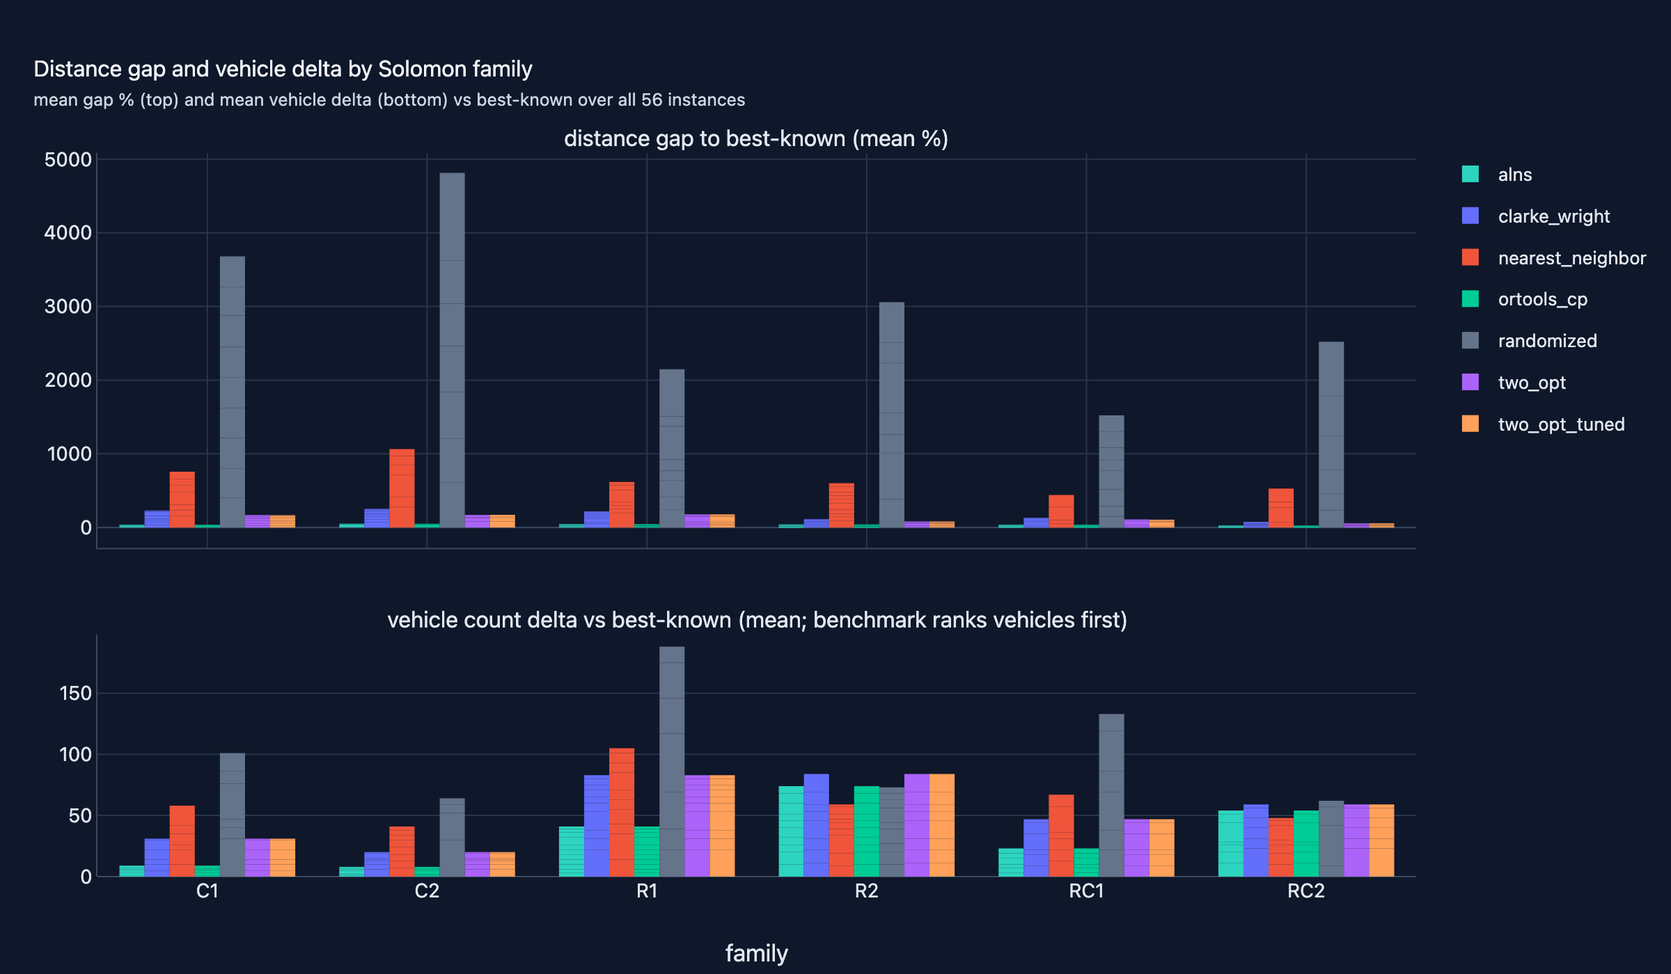
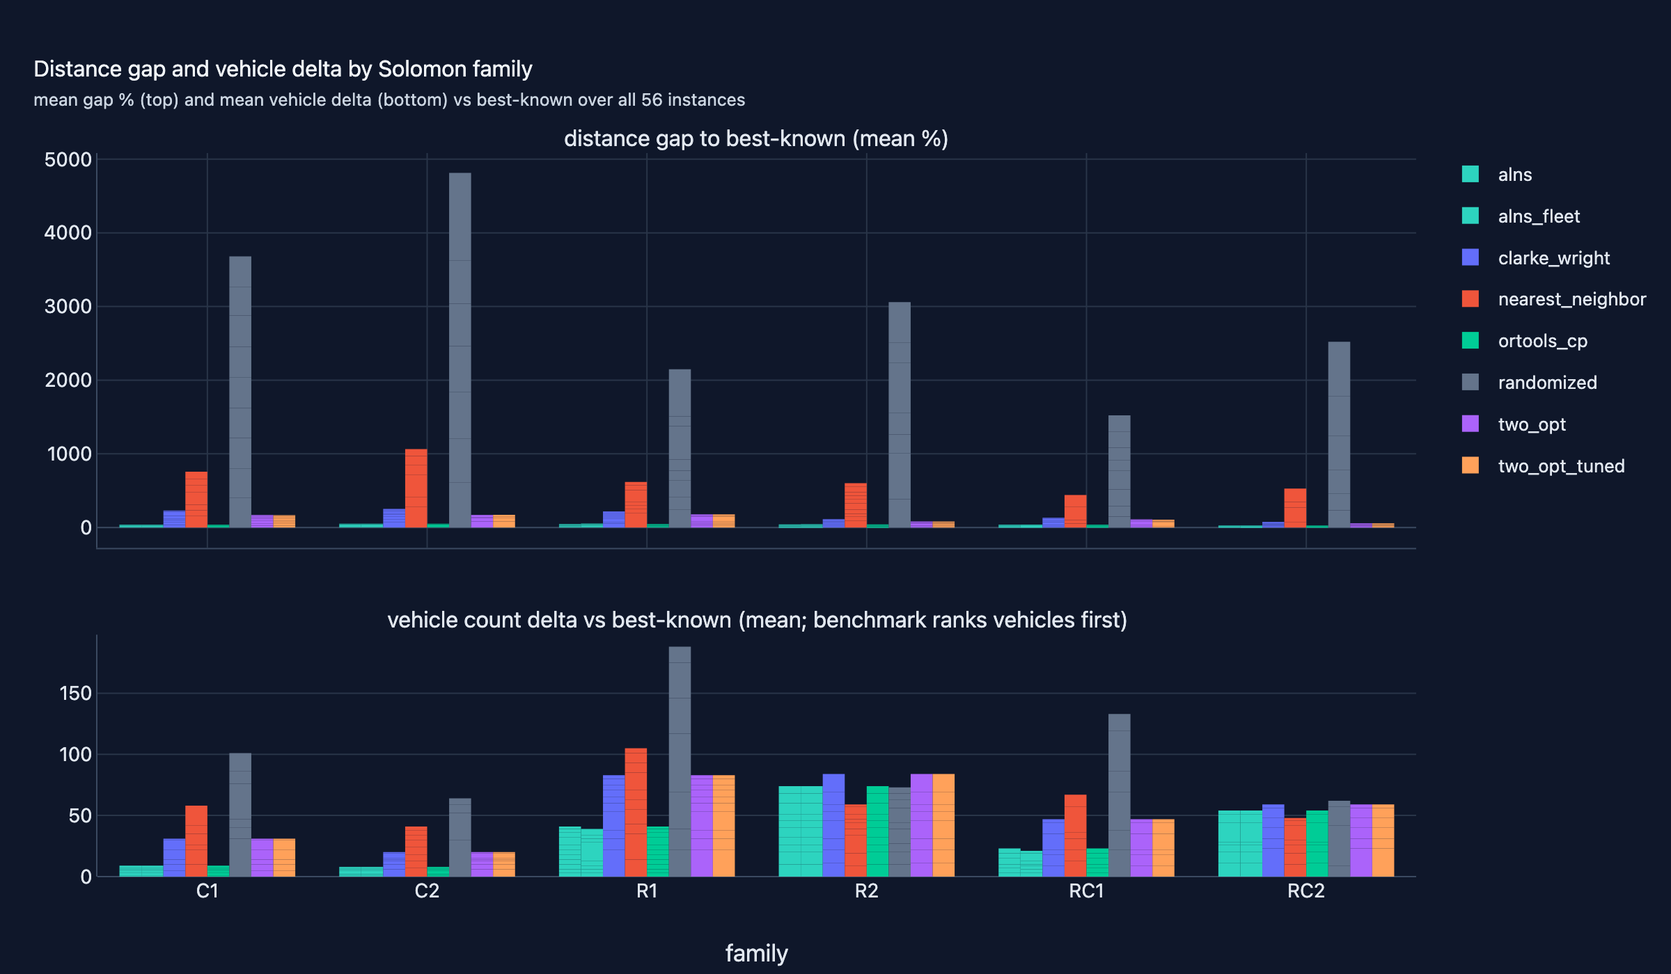
exp-11: rename to DataFrame Engines Benchmark; single-source fresh results everywhere
- portfolio/README/docs titles become 'DataFrame Engines Benchmark';
  README + docs rows and the case-study page carry the new short_version
  verbatim (geomean x19.2/x14.9, sqlite ~29x through file conversion,
  1M-10M sub-linear scaling) with the new 10-task x 4-engine table
- the projects-page card gains its missing 'what it does' block and
  refreshed results; short_version re-derived to the README's own numbers
- docs figures swapped to the deep-wave set (speedup_overview,
  memory_lollipop, normalized_heatmap); stale PNGs removed

diff --git a/apps/showcase-web/src/lib/storyShort.ts b/apps/showcase-web/src/lib/storyShort.ts
@@ -17,5 +17,5 @@ export const STORY_SHORT: Record<string, string | null> = {
   "08-inference-serving": "One laptop, one run: five LLM serving setups, 760 requests, zero failures. A 4-bit mixture-of-experts model answers in 0.81 s per request at about $0.12 per 1M output tokens (electricity only). The reusable asset is the harness for re-measuring any stack on target hardware.",
   "09-agentic-workflows": "An auditable plan-act-review AI workflow with fixed tools and budgets passed all automated checks: 15/15 fixed tasks, 13/13 unseen answers, 5/6 should-fail probes, ~$0.13 per suite. Ready for supervised pilots, not unattended use. Data: synthetic handbook, real Wikipedia chunks.",
   "10-uplift-experimentation": "On 64,000-customer randomized email data, uplift targeting beat random targeting by +$2,812 (+69%) at a 25% send budget, CI [+$718, +$4,767]; at $0.01 per email, mailing everyone still wins. Targeting pays when sending is costly. Data: Hillstrom MineThatData, March 2008.",
-  "11-data-engineering": "Eight data tasks over 2.96M NYC taxi trips on pandas, Polars and DuckDB, results parity-checked: Polars x17.3, DuckDB x14.7 vs pandas on the geomean — widest on CSV parsing, narrowest on parquet IO. Parity caught pandas dropping the N/A borough. Data: NYC TLC yellow 2024-01."
+  "11-data-engineering": "Ten data tasks over 2.96M NYC taxi trips, parity-checked on pandas, Polars, DuckDB and stdlib sqlite: Polars 19x, DuckDB 15x pandas; sqlite answers every SQL task but file conversion leaves it ~29x slower; 1M-10M tracks show the fast two scaling sub-linearly. NYC TLC 2024-01."
 };

diff --git a/apps/showcase-web/src/lib/cardCopy.ts b/apps/showcase-web/src/lib/cardCopy.ts
@@ -30,6 +30,8 @@ export const CARD_DOES: Record<string, string> = {
     "Runs an auditable plan-act-review agent workflow over a synthetic **12-document handbook** plus a read-only Wikipedia slice.",
   "10-uplift-experimentation":
     "Evaluates uplift targeting on **64,000-customer** randomized email data (Hillstrom MineThatData, March 2008) at a **25% send budget**.",
+  "11-data-engineering":
+    "Times **ten data tasks** — parquet/CSV IO, group-by, join, window, strings — over **2.96M NYC taxi trips** on **pandas, Polars, DuckDB and stdlib sqlite**, with a row-parity gate on every measured cell.",
 };
 
 /** "What it achieves" per project id — the measured result. Key numbers are
@@ -56,7 +58,7 @@ export const CARD_ACHIEVES: Record<string, string> = {
   "10-uplift-experimentation":
     "Beats random targeting by **+$2,812 (+69%; CI +$718 to +$4,767)**, though at $0.01 per email mailing everyone still wins.",
   "11-data-engineering":
-    "Polars runs **x17.3** and DuckDB **x14.7** over pandas on the geomean of 8 parity-checked tasks — from a **3-5x** tie on parquet IO to **110x-plus** on group-by and window work.",
+    "Polars runs **x19.2** and DuckDB **x14.9** over pandas on the geomean of 10 parity-checked tasks; sqlite answers every SQL task but file conversion leaves it **~29x slower**; seeded **1M-10M** tracks show the fast two scaling sub-linearly.",
 };
 
 /** Exactly four short tags per card — technique/capability wording with no

diff --git a/apps/showcase-web/src/pages/ProjectsIndex.tsx b/apps/showcase-web/src/pages/ProjectsIndex.tsx
@@ -276,7 +276,7 @@ export function ProjectsIndex() {
   return (
     <>
       <section className="services-hero">
-        <p className="kicker">&gt; Projects</p>
+        <p className="kicker">&gt; projects</p>
         <h1>Projects and demos repository</h1>
         <p>
           A growing set of public, reproducible case studies with live demos — real datasets,

diff --git a/apps/showcase-web/src/lib/staticRegistry.ts b/apps/showcase-web/src/lib/staticRegistry.ts
@@ -220,7 +220,7 @@ export const STATIC_PROJECTS: StaticProject[] = [
       "Parquet",
       "Benchmark harness"
     ],
-    "title": "Data Engineering",
+    "title": "DataFrame Engines Benchmark",
     "topic": "Data Engineering"
   }
 ];

diff --git a/docs/projects/11-data-engineering.md b/docs/projects/11-data-engineering.md
@@ -1,71 +1,85 @@
-# 11 · Data Engineering (pandas / Polars / DuckDB)
+# 11 · DataFrame Engines Benchmark (pandas / Polars / DuckDB / sqlite)
 
 **Domain:** data engineering ·
-**Data:** NYC TLC yellow taxi 2024-01 (2,964,624 trips, real parquet, sha256-pinned) ·
+**Data:** NYC TLC yellow taxi 2024-01 (2,964,624 trips, real parquet, sha256-pinned) + seeded synthetic CI/scalability tracks ·
 **Status:** working showcase —
 [Project README](https://github.com/amm-ds/portfolio/tree/main/projects/11-data-engineering) ·
 [DESIGN.md](https://github.com/amm-ds/portfolio/tree/main/projects/11-data-engineering/DESIGN.md) ·
 [Dataset card](https://amm-ds.github.io/portfolio/data-registry/nyc-tlc/)
 
-> Eight data tasks over 2.96M NYC taxi trips on pandas, Polars and DuckDB,
-> results parity-checked: Polars x17.3, DuckDB x14.7 vs pandas on the geomean
-> — widest on CSV parsing, narrowest on parquet IO. Parity caught pandas
-> dropping the N/A borough. Data: NYC TLC yellow 2024-01.
->
-> **TL;DR:** data teams choosing between pandas, Polars and DuckDB, where the
-> honest answer depends on the task mix: the same three engines tie on warm
-> parquet reads and sit up to 170x apart on group-by and window work. The
-> benchmark is a reusable harness — pinned data, one contract per task, equal
-> results enforced before any timing counts.
->
-> [Case study source and interactive figures on GitHub →](https://github.com/amm-ds/portfolio/tree/main/projects/11-data-engineering)
+> Ten data tasks over 2.96M NYC taxi trips, parity-checked on pandas,
+> Polars, DuckDB and stdlib sqlite: Polars 19x, DuckDB 15x pandas; sqlite
+> answers every SQL task but file conversion leaves it ~29x slower; 1M-10M
+> tracks show the fast two scaling sub-linearly. NYC TLC 2024-01.
 
-![Wall-time speedup vs pandas per task (median of 5, log scale): 4-5x on parquet IO, 22-36x on joins and CSV, 124-170x on group-by and window.](../assets/projects/11-data-engineering/speedup_vs_pandas.png){ width="100%" }
+**TL;DR:** data teams choosing between pandas, Polars and DuckDB — now with
+stdlib sqlite as the honest classical baseline — where the answer depends on
+the task mix: the engines tie on warm parquet reads and sit up to 44x apart
+on group-by and window work. The benchmark is a reusable harness — pinned
+data, one contract per task, equal results enforced before any timing
+counts.
+
+[Case study source and interactive figures on GitHub →](https://github.com/amm-ds/portfolio/tree/main/projects/11-data-engineering)
+
+![Speedup over pandas and sqlite across all ten tasks: Polars x19.2 and DuckDB x14.9 on the geomean; sqlite answers every SQL task but its file-loading conversion dominates.](../assets/projects/11-data-engineering/speedup_overview.png){ width="100%" }
 
 The engine question comes up in every data platform engagement, and the
 public answers rarely survive scrutiny: different queries per engine, no
 correctness check, numbers from an unknown machine. This project answers
 with a measured map over **2,964,624 real January-2024 yellow-taxi trips**:
-eight analytics-shaped tasks — parquet read, CSV read, per-day group-by,
-zone join, top-N-per-day window, filtered scan, parquet write, and a
-31-file partitioned read — each implemented on **pandas 2.x**, **Polars
-(lazy)**, and **DuckDB (SQL)** behind one contract: identical canonical
-results on all three, enforced as a hard gate before any stopwatch starts.
+ten analytics-shaped tasks — parquet read, CSV read, per-day group-by, zone
+join, top-N-per-day window, filtered scan, string group-by, distinct sort,
+parquet write, and a 31-file partitioned read — each implemented on
+**pandas 2.x**, **Polars (lazy)**, **DuckDB (SQL)** and **stdlib sqlite**
+behind one contract: identical canonical results on every engine, enforced
+as a hard gate before any stopwatch starts. sqlite cannot read parquet or
+CSV itself, so each task loads the file into its in-memory database inside
+the timed cell — that conversion is the honest cost of the classical
+engine, not a fudged number.
 
-## Key results (real run, seed 42, median of 5 warm repeats)
+## Key results (real run, seed 42, median of 5 untraced warm repeats)
 
 Median wall time per task, seconds; × = speedup vs pandas (bold: ladder
-total). Every cell passed the canonical-result gate (counts and keys exact,
-float sums within a 1e-5 band — parallel summation reorder is noise, not
-drift).
+total). Every measured cell passed the canonical-result gate (counts and
+keys exact, float sums within a 1e-5 band — parallel summation reorder is
+noise, not drift). write_parquet is honestly **n/a** for sqlite.
 
-| task | pandas | Polars | DuckDB | Polars × | DuckDB × |
-|---|---|---|---|---|---|
-| read_parquet | 0.014 | 0.003 | 0.003 | 5.4 | 4.7 |
-| read_csv | 1.444 | 0.040 | 0.064 | 36.4 | 22.6 |
-| groupby | 1.517 | 0.010 | 0.014 | 158.1 | 111.5 |
-| join | 0.205 | 0.010 | 0.010 | 20.6 | 21.3 |
-| window | 1.491 | 0.011 | 0.012 | 137.6 | 122.4 |
-| filter | 0.018 | 0.005 | 0.005 | 3.9 | 3.9 |
-| write_parquet | 0.277 | 0.056 | 0.050 | 4.9 | 5.5 |
-| partitioned_read | 0.017 | 0.004 | 0.005 | 4.7 | 3.3 |
-| **total / geomean** | **4.98** | **0.14** | **0.16** | **×17.3** | **×14.7** |
+| task | pandas | Polars | DuckDB | sqlite | Polars × | DuckDB × |
+|---|---|---|---|---|---|---|
+| read_parquet | 0.044 | 0.002 | 0.003 | 4.869 | 18.0 | 15.4 |
+| read_csv | 1.165 | 0.040 | 0.077 | 5.753 | 29.4 | 15.2 |
+| groupby | 0.374 | 0.009 | 0.010 | 5.179 | 40.7 | 36.2 |
+| join | 0.242 | 0.010 | 0.010 | 3.650 | 25.3 | 23.8 |
+| window | 0.341 | 0.008 | 0.009 | 5.882 | 43.5 | 38.4 |
+| filter | 0.048 | 0.004 | 0.012 | 1.947 | 11.0 | 4.1 |
+| strings_groupby | 0.149 | 0.006 | 0.006 | 4.212 | 25.1 | 25.0 |
+| distinct_sort | 0.075 | 0.007 | 0.005 | 3.866 | 11.4 | 14.3 |
+| write_parquet | 0.500 | 0.074 | 0.083 | n/a | 6.7 | 6.0 |
+| partitioned_read | 0.048 | 0.004 | 0.006 | 5.190 | 13.3 | 7.9 |
+| **total / geomean** | **2.99** | **0.16** | **0.22** | **40.55** | **×19.2** | **×14.9** |
 
-Fresh-process peak RSS: pandas 446–797 MB (797 MB on the join), Polars
-196–428 MB, DuckDB 177–455 MB — on the write task all three tie around
-428–455 MB. The map, not the mean, is the takeaway: 3–5x on parquet IO
-(the page cache, not the engine, sets the price at this size), 21–36x on
-joins and CSV parsing, and 111–158x on the group-by and window tasks where
-pandas builds Python-object intermediates. The gates earned their keep
-before the first figure shipped: the parity check caught pandas silently
-dropping every trip whose borough is the literal string "N/A" (the default
-CSV parser reads it as missing; 1,658 trips), and the repeat gate caught
-parallel-float rounding cliffs — both now regression-tested.
+Fresh-process peak RSS: pandas 549–945 MB (945 MB on the join), Polars
+200–529 MB, DuckDB 178–633 MB, sqlite 396–1,520 MB (frame and database
+coexist). The map, not the mean, is the takeaway: parquet IO sits at
+11–18x (the page cache, not the engine, sets the price at this size),
+22–43x on joins, CSV and window work, and sqlite pays seconds per task in
+conversion. The gates earned their keep before the first figure shipped:
+the parity check caught pandas silently dropping every trip whose borough
+is the literal string "N/A" (the default CSV parser reads it as missing;
+1,658 trips), and the determinism gate caught parallel-float rounding
+cliffs — both now regression-tested.
 
-The full protocol (median-of-5 warm repeats, cold fresh-process IO reads,
-true peak RSS in a fresh process per cell), versions and hardware live in
+Seeded 1M/3M/10M scalability tracks separate the engines further: pandas
+and sqlite grow linearly (log-log slopes 0.98–1.09) while Polars (0.44–0.76)
+and DuckDB (0.31–0.65) grow sub-linearly — the per-row advantage widens
+with scale. At 10M group-by: pandas 1.15 s, Polars 0.031 s, DuckDB 0.020 s,
+sqlite 26.4 s.
+
+The full protocol (median-of-5 untraced warm repeats, one dedicated traced
+allocation pass per cell, cold fresh-process IO reads, true peak RSS in a
+fresh process), versions and hardware live in
 `reports/evaluation_metadata.json`; per-task tables and figures in
 `reports/`. A seeded synthetic track runs the whole protocol in about
-15 seconds — that is the CI path.
+26 seconds — that is the CI path.
 
-![Peak RSS per task from fresh-process probes: pandas reaches 450-800 MB while Polars and DuckDB stay lower on the heavy tasks; all three tie on the write.](../assets/projects/11-data-engineering/memory_by_task.png){ width="100%" }
+![Peak RSS per task from fresh-process probes: pandas reaches 945 MB on the join, sqlite peaks at 1.5 GB on CSV, while Polars and DuckDB stay lower on the heavy tasks.](../assets/projects/11-data-engineering/memory_lollipop.png){ width="100%" }

diff --git a/README.md b/README.md
@@ -47,7 +47,7 @@ Ten projects, all working showcases on the same platform.
 | 08 | [LLM Inference & Serving](projects/08-inference-serving/) | AI infrastructure | Local Ollama stack (real serving target) | One laptop, one run: five LLM serving setups, 760 requests, zero failures. A 4-bit mixture-of-experts model answers in 0.81 s per request at about $0.12 per 1M output tokens (electricity only). The reusable asset is the harness for re-measuring any stack on target hardware.<br>Stack: latency percentiles vs concurrency, GGUF-vs-MLX engine panel, quantization frontier |
 | 09 | [Agentic Workflows](projects/09-agentic-workflows/) | Agentic AI | Synthetic 12-doc "Atlas Valley" handbook + read-only Wikipedia slice from 01 (CC BY-SA) | An auditable plan-act-review AI workflow with fixed tools and budgets passed all automated checks: 15/15 fixed tasks, 13/13 unseen answers, 5/6 should-fail probes, ~$0.13 per suite. Ready for supervised pilots, not unattended use. Data: synthetic handbook, real Wikipedia chunks.<br>Stack: pydantic-graph Plan→Execute→Critique, HITL checkpoints, budget-capped offline graders |
 | 10 | [Uplift & Experimentation](projects/10-uplift-experimentation/) | Decision science | Hillstrom email RCT (real) | On 64,000-customer randomized email data, uplift targeting beat random targeting by +$2,812 (+69%) at a 25% send budget, CI [+$718, +$4,767]; at $0.01 per email, mailing everyone still wins. Targeting pays when sending is costly. Data: Hillstrom MineThatData, March 2008.<br>Stack: CUPED, power analysis, T/X-learner uplift, Qini & profit curves |
-| 11 | [Data Engineering Benchmark](projects/11-data-engineering/) | Data engineering | NYC TLC yellow 2024-01 (real, sha-pinned) + seeded synthetic CI track | Eight data tasks over 2.96M NYC taxi trips on pandas, Polars and DuckDB, results parity-checked: Polars x17.3, DuckDB x14.7 vs pandas on the geomean — widest on CSV parsing, narrowest on parquet IO. Parity caught pandas dropping the N/A borough. Data: NYC TLC yellow 2024-01.<br>Stack: 8-task contract on pandas / Polars / DuckDB, parity gate, median-of-5 timing + fresh-process RSS probes |
+| 11 | [DataFrame Engines Benchmark](projects/11-data-engineering/) | Data engineering | NYC TLC yellow 2024-01 (real, sha-pinned) + seeded synthetic CI/scalability tracks | Ten data tasks over 2.96M NYC taxi trips, parity-checked on pandas, Polars, DuckDB and stdlib sqlite: Polars 19x, DuckDB 15x pandas; sqlite answers every SQL task but file conversion leaves it ~29x slower; 1M-10M tracks show the fast two scaling sub-linearly. NYC TLC 2024-01.<br>Stack: 10-task contract on pandas / Polars / DuckDB / sqlite, parity gate, median-of-5 untraced timing + traced allocation pass + fresh-process RSS probes |
 
 Flagships (01, 07) are complete end-to-end; the rest are working showcases
 built on the same platform, designed for deepening.
@@ -68,7 +68,7 @@ built on the same platform, designed for deepening.
 | 08 Inference | One laptop, one run: five LLM serving setups, 760 requests, zero failures. A 4-bit mixture-of-experts model answers in 0.81 s per request at about $0.12 per 1M output tokens (electricity only). The reusable asset is the harness for re-measuring any stack on target hardware.<br>Measured: Local serving benchmark (author run): 19 cells / 760 requests / 0 failures; **MLX ≈ 2.9× GGUF tok/s on Apple Silicon**; 4-bit quantization costs serving headroom, not structured-output validity |
 | 09 Agentic | An auditable plan-act-review AI workflow with fixed tools and budgets passed all automated checks: 15/15 fixed tasks, 13/13 unseen answers, 5/6 should-fail probes, ~$0.13 per suite. Ready for supervised pilots, not unattended use. Data: synthetic handbook, real Wikipedia chunks.<br>Measured: Full 15-task hosted run on `kimi-for-coding` (per-call tool capture): **15/15 on every grader** — answer success, exact tool set (up from 8/15: per-call traces located the unplanned calls, prompt/docstring surgery removed them), step budget, latency budget (median **18.2 s**/task, p95 31.1 s vs the 60 s cap); sealed held-out set, expanded to **19 tasks** (2026-10-30): **13/13 answers with exact tool sets, 5/6 should-fail refusals** — the miss is a failure-message wording gap, not confabulation; the h11–h19 wave ran on local Ollama at **$0.00 metered** and exposed the hosted-tuned 60 s budget as provider-sensitive (7/9 local tasks exceed it); suite cost **$0.13 cloud-equivalent** of the $2.00 suite cap (~$0.0088/task), with two repeat passes confirming 15/15 answers and exact tool sets at ~$0.10–0.15 per suite; t15 retrieves two-article facts from 01's real Wikipedia index |
 | 10 Uplift | On 64,000-customer randomized email data, uplift targeting beat random targeting by +$2,812 (+69%) at a 25% send budget, CI [+$718, +$4,767]; at $0.01 per email, mailing everyone still wins. Targeting pays when sending is costly. Data: Hillstrom MineThatData, March 2008.<br>Measured: Hillstrom RCT: ATE +0.68pp, CUPED covariate lesson, power analysis; T-learner **+$2,812/wave vs random** at 25% budget (own paired CI [+$718, +$4,767] — established); **mail-everyone ($16,103) beats it at $0.01/email** (paired CI [−$13,125, −$5,808] below zero) — the value is concentration (~42% of conversions at ¼ volume); targeting wins above ≈$0.30/email (break-even grid); Qini curve-area ranking not established (spans zero; the paired response−T profit CI [−$3,617, −$48] is what favors T) |
-| 11 Engine benchmark | Eight data tasks over 2.96M NYC taxi trips on pandas, Polars and DuckDB, results parity-checked: Polars x17.3, DuckDB x14.7 vs pandas on the geomean — widest on CSV parsing, narrowest on parquet IO. Parity caught pandas dropping the N/A borough. Data: NYC TLC yellow 2024-01.<br>Measured: Real-data primary (NYC TLC yellow 2024-01, 2,964,624 trips, sha-pinned): geomean speedup vs pandas **x17.3 (Polars) / x14.7 (DuckDB)** over 8 parity-checked tasks — per-task spread **3-5x on parquet IO to 111-158x on group-by and window**; fresh-process peak RSS **446-797 MB (pandas) vs 196-428 (Polars) / 177-455 (DuckDB)**; CSV parse is pandas's heaviest tax (1.44 s of its 4.98 s ladder, Polars x36); the parity gate caught pandas silently dropping the literal "N/A" borough (1,658 trips) and the determinism gate caught parallel-float rounding cliffs |
+| 11 Engine benchmark | Ten data tasks over 2.96M NYC taxi trips, parity-checked on pandas, Polars, DuckDB and stdlib sqlite: Polars 19x, DuckDB 15x pandas; sqlite answers every SQL task but file conversion leaves it ~29x slower; 1M-10M tracks show the fast two scaling sub-linearly. NYC TLC 2024-01.<br>Measured: Real-data primary (NYC TLC yellow 2024-01, 2,964,624 trips, sha-pinned): geomean speedup vs pandas **x19.2 (Polars) / x14.9 (DuckDB)** over 10 parity-checked tasks; stdlib sqlite answers every SQL task but its in-timed file-loading conversion leaves it ~29x slower (40.55s vs 2.99s totals); fresh-process peak RSS **549-945 MB (pandas) vs 200-529 (Polars) / 178-633 (DuckDB)**; seeded 1M/3M/10M tracks: pandas and sqlite grow linearly while Polars (0.44-0.76) and DuckDB (0.31-0.65) grow sub-linearly |
 
 ## Engineering practices
 

diff --git a/docs/projects/index.md b/docs/projects/index.md
@@ -19,4 +19,4 @@ Public deployment status: [deploy/DEPLOY.md](https://github.com/amm-ds/portfolio
 | 08 | [LLM Inference & Serving](08-inference-serving.md) | Model serving | Local Ollama stack (GGUF vs MLX) | One laptop, one run: five LLM serving setups, 760 requests, zero failures. A 4-bit mixture-of-experts model answers in 0.81 s per request at about $0.12 per 1M output tokens (electricity only). The reusable asset is the harness for re-measuring any stack on target hardware.<br>Pinned: measured latency/throughput frontier across engines, quants, concurrency | Working showcase |
 | 09 | [Agentic AI Workflows](09-agentic-workflows.md) | Agentic AI | Synthetic 12-doc "Atlas Valley" handbook + read-only Wikipedia slice from 01 (CC BY-SA) | An auditable plan-act-review AI workflow with fixed tools and budgets passed all automated checks: 15/15 fixed tasks, 13/13 unseen answers, 5/6 should-fail probes, ~$0.13 per suite. Ready for supervised pilots, not unattended use. Data: synthetic handbook, real Wikipedia chunks.<br>Pinned: 15/15 on every grader on a hosted model + held-out 13/13 answers, 5/6 should-fail refusals (n=19 suite) — suite $0.13 of the $2.00 cap, cloud-equivalent; the local-provider wave meters $0.00 but breaks the hosted-tuned 60 s budget on 7/9 tasks | Working showcase |
 | 10 | [Retention Uplift & Experimentation](10-uplift-experimentation.md) | Decision Science | Hillstrom email (MineThatData) | On 64,000-customer randomized email data, uplift targeting beat random targeting by +$2,812 (+69%) at a 25% send budget, CI [+$718, +$4,767]; at $0.01 per email, mailing everyone still wins. Targeting pays when sending is costly. Data: Hillstrom MineThatData, March 2008.<br>Pinned: targeting profit advantage established by paired bootstrap; mail-everyone named as the bar | Working showcase |
-| 11 | [Data Engineering Benchmark](11-data-engineering.md) | Data engineering | NYC TLC yellow (sha-pinned) | Eight data tasks over 2.96M NYC taxi trips on pandas, Polars and DuckDB, results parity-checked: Polars x17.3, DuckDB x14.7 vs pandas on the geomean — widest on CSV parsing, narrowest on parquet IO. Parity caught pandas dropping the N/A borough. Data: NYC TLC yellow 2024-01.<br>Pinned: geomean x17.3 (Polars) / x14.7 (DuckDB) vs pandas across 8 parity-checked tasks; 3-5x on parquet IO, 111-158x on group-by and window; parity gate caught pandas dropping the N/A borough | Working showcase |
+| 11 | [DataFrame Engines Benchmark](11-data-engineering.md) | Data engineering | NYC TLC yellow (sha-pinned) | Ten data tasks over 2.96M NYC taxi trips, parity-checked on pandas, Polars, DuckDB and stdlib sqlite: Polars 19x, DuckDB 15x pandas; sqlite answers every SQL task but file conversion leaves it ~29x slower; 1M-10M tracks show the fast two scaling sub-linearly. NYC TLC 2024-01.<br>Pinned: geomean x19.2 (Polars) / x14.9 (DuckDB) vs pandas across 10 parity-checked tasks; sqlite correct on every SQL task but ~29x slower through file conversion; 1M-10M tracks show the fast two scaling sub-linearly | Working showcase |

diff --git a/projects/11-data-engineering/README.md b/projects/11-data-engineering/README.md
@@ -1,4 +1,4 @@
-# 11 — Data Engineering: pandas vs Polars vs DuckDB vs sqlite
+# 11 — DataFrame Engines Benchmark: pandas vs Polars vs DuckDB vs sqlite
 
 A dataframe-engine benchmark built the way the portfolio builds everything:
 pinned public data, one task contract every engine must satisfy, a seeded
